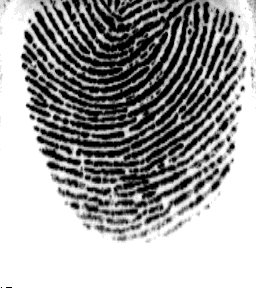
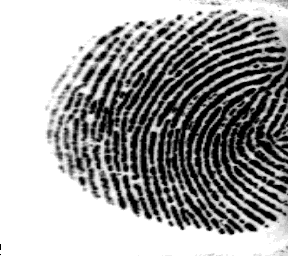
Correction in symmetry_x

diff --git a/src/image.cpp b/src/image.cpp
@@ -134,7 +134,16 @@ Image Image::sym_y(){
 }
 
 Image Image::sym_xy(){
-    return (this->sym_x()).sym_y();
+    
+    cv::Mat_<float> new_mat(cols, rows);
+    Image new_img(new_mat);
+
+    for (int i = 0; i < rows; i++) {
+        for (int j = 0; j < cols; j++)
+            new_img(j, i) = (*this)(i, j);
+    }
+
+    return new_img;
 }
 
 //All pixels into a vector
